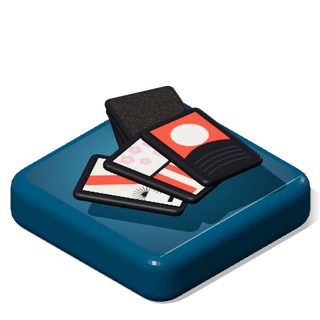
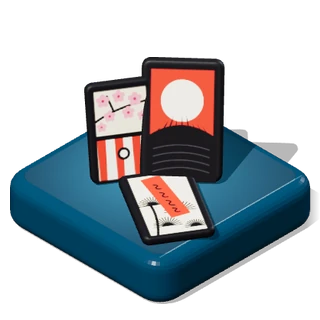
花札の3Dアイコン：芒に月・桜に幕を大きく立て、松に赤短を手前に寝かせる構図に、図柄をひと目で分かる形に
Claude-Session: https://claude.ai/code/session_01EiWRAXq3cwtuNUerXUujnf

diff --git a/atlas/icons3d.js b/atlas/icons3d.js
@@ -980,11 +980,12 @@
       const sf = mesh(new T.CircleGeometry(.6, 40), M({ map: starTex, transparent: true, roughness: .3, metalness: .5 })); g0.add(at(sf, 1.4, .185, 1.4, -Math.PI / 2, 0, .3));
       return g0;
     },
-    hanafuda() {   // 花札 (hanafuda/, 2026-11-28): an indigo-dyed cloth (the game's table colour), a squat stack of black-backed cards with the
-      // grainy paper back, and three face cards fanned on it — 芒に月 (the full moon), 桜に幕 (the curtain) and 松に赤短 (the red ribbon).
-      // The faces are drawn here as plain shapes (not the game's card art); the thick black edge is the backing paper folded over the face.
+    hanafuda() {   // 花札 (hanafuda/, 2026-11-28): on an indigo-dyed cloth (the game's table colour) two chunky cards stand leaning back toward
+      // the viewer — 芒に月 (the full moon over the pampas hill) in front, 桜に幕 (cherry blossom and the curtain) behind it — 松に赤短 (the red
+      // ribbon on the pine) lies in front, and a squat stack of black-backed cards sits at the back. The faces are drawn here as simple shapes
+      // (not the game's card art); the thick black edge is the backing paper folded over the face.
       const g0 = new T.Group();
-      const clothTex = X.canvasTex('ic-hfc', 512, 512, (c, W) => {
+      const clothTex = X.canvasTex('ic-hfcl', 512, 512, (c, W) => {
         const r = 40; c.beginPath(); c.moveTo(r, 0); c.arcTo(W, 0, W, W, r); c.arcTo(W, W, 0, W, r); c.arcTo(0, W, 0, 0, r); c.arcTo(0, 0, W, 0, r); c.closePath();
         const gr = c.createRadialGradient(W * .5, W * .4, 20, W * .5, W * .5, W * .75); gr.addColorStop(0, '#24607c'); gr.addColorStop(1, '#0f2f40'); c.fillStyle = gr; c.fill();
         c.save(); c.clip(); c.globalAlpha = .07; c.strokeStyle = '#cfe3ee'; c.lineWidth = 1;   // the weave
@@ -993,46 +994,63 @@
         c.strokeStyle = 'rgba(205,226,236,.35)'; c.lineWidth = 4; c.save(); c.translate(22, 22); c.scale((W - 44) / W, (W - 44) / W); c.stroke(); c.restore();
       });
       const top = mesh(new T.PlaneGeometry(3.86, 3.86), M({ map: clothTex, transparent: true, roughness: .9 })); top.rotation.x = -Math.PI / 2; top.position.y = .006; top.receiveShadow = true; g0.add(top);
-      // faces: 320 x 530 like the real cards, a black frame all round
-      const face = (k, draw) => X.canvasTex('ic-hff' + k, 320, 530, (c, W, H) => {
-        c.fillStyle = '#1b1a1f'; c.fillRect(0, 0, W, H); c.fillStyle = '#f1e6cc'; c.fillRect(20, 20, W - 40, H - 40);
-        c.save(); c.beginPath(); c.rect(20, 20, W - 40, H - 40); c.clip(); draw(c, W, H); c.restore();
+      const INK = '#1c1b20', RED = '#d23a2c', PAPER = '#f3e9d0';
+      const face = (k, draw) => X.canvasTex('ic-hff' + k, 400, 662, (c, W, H) => {
+        c.fillStyle = INK; c.fillRect(0, 0, W, H); c.fillStyle = PAPER; c.fillRect(22, 22, W - 44, H - 44);
+        c.save(); c.beginPath(); c.rect(22, 22, W - 44, H - 44); c.clip(); draw(c, W, H); c.restore();
       });
+      const blade = (c, x, y, len, a, w) => { c.beginPath(); c.moveTo(x - w, y); c.quadraticCurveTo(x + Math.cos(a) * len * .5, y - Math.sin(a) * len * .6, x + Math.cos(a) * len, y - Math.sin(a) * len); c.quadraticCurveTo(x + Math.cos(a) * len * .5 + w, y - Math.sin(a) * len * .5, x + w, y); c.fill(); };
+      // 芒に月: a red sky, the big white full moon, the black pampas hill with its blades
       const moonTex = face('m', (c, W, H) => {
-        c.fillStyle = '#c8302a'; c.fillRect(0, 0, W, H * .62);
-        c.fillStyle = '#f6efdc'; c.beginPath(); c.arc(W * .5, H * .3, 92, 0, 7); c.fill();
-        c.fillStyle = '#1d1c22'; c.beginPath(); c.moveTo(0, H * .6); c.quadraticCurveTo(W * .5, H * .38, W, H * .6); c.lineTo(W, H); c.lineTo(0, H); c.fill();
-        c.strokeStyle = '#3a3940'; c.lineWidth = 4; for (let i = 0; i < 4; i++) { c.beginPath(); c.moveTo(30, H * (.7 + i * .07)); c.quadraticCurveTo(W * .5, H * (.6 + i * .07), W - 30, H * (.7 + i * .07)); c.stroke(); }
+        c.fillStyle = RED; c.fillRect(0, 0, W, H * .66);
+        c.fillStyle = '#fbf6e8'; c.beginPath(); c.arc(W * .5, H * .3, 120, 0, 7); c.fill();
+        c.fillStyle = INK; c.beginPath(); c.moveTo(0, H * .62); c.quadraticCurveTo(W * .5, H * .4, W, H * .62); c.lineTo(W, H); c.lineTo(0, H); c.fill();
+        for (let i = 0; i < 9; i++) blade(c, 40 + i * 40, H * .56 + Math.abs(i - 4) * 9, 70 + (i % 3) * 22, Math.PI / 2 + (i - 4) * .16, 6);
+        c.strokeStyle = '#4a4850'; c.lineWidth = 5; for (let i = 0; i < 4; i++) { c.beginPath(); c.moveTo(40, H * (.72 + i * .065)); c.quadraticCurveTo(W * .5, H * (.64 + i * .065), W - 40, H * (.72 + i * .065)); c.stroke(); }
       });
-      const curtainTex = face('c', (c, W, H) => {
-        const bl = (x, y, r) => { c.fillStyle = '#e88aa4'; for (let i = 0; i < 5; i++) { const a = i * 1.257; c.beginPath(); c.arc(x + Math.cos(a) * r * .55, y + Math.sin(a) * r * .55, r * .5, 0, 7); c.fill(); } c.fillStyle = '#f7d9a0'; c.beginPath(); c.arc(x, y, r * .25, 0, 7); c.fill(); };
-        [[70, 70, 38], [160, 55, 34], [250, 80, 38], [110, 150, 30], [215, 160, 32]].forEach(b => bl(...b));
-        // the red-and-white curtain
-        for (let i = 0; i < 6; i++) { c.fillStyle = i % 2 ? '#f4ede0' : '#c8302a'; c.fillRect(20 + i * 47, 250, 47, 240); }
-        c.fillStyle = '#1d1c22'; c.fillRect(20, 236, W - 40, 22);
+      // 桜に幕: pink blossoms on dark branches above, the red-and-white striped curtain below
+      const sakuraTex = face('s', (c, W, H) => {
+        c.strokeStyle = INK; c.lineWidth = 16; c.lineCap = 'round'; c.beginPath(); c.moveTo(20, 230); c.quadraticCurveTo(150, 150, 380, 120); c.stroke(); c.beginPath(); c.moveTo(150, 170); c.lineTo(110, 60); c.stroke();
+        const bl = (x, y, r) => { c.fillStyle = '#ef9bb4'; for (let i = 0; i < 5; i++) { const a = i * 1.2566 - Math.PI / 2; c.beginPath(); c.ellipse(x + Math.cos(a) * r * .55, y + Math.sin(a) * r * .55, r * .5, r * .42, a, 0, 7); c.fill(); } c.fillStyle = '#c23a55'; c.beginPath(); c.arc(x, y, r * .22, 0, 7); c.fill(); };
+        [[80, 90, 46], [190, 70, 44], [300, 100, 48], [120, 200, 40], [250, 190, 44], [345, 220, 36], [60, 270, 34]].forEach(b => bl(...b));
+        c.fillStyle = INK; c.fillRect(0, 330, W, 30);
+        for (let i = 0; i < 6; i++) { c.fillStyle = i % 2 ? '#fbf6e8' : RED; c.beginPath(); c.moveTo(22 + i * 60, 360); c.lineTo(22 + (i + 1) * 60, 360); c.lineTo(22 + (i + 1) * 60 + (i % 2 ? 6 : -4), H); c.lineTo(22 + i * 60 + (i % 2 ? -4 : 6), H); c.fill(); }
+        c.fillStyle = INK; c.beginPath(); c.arc(W * .5, 470, 44, 0, 7); c.fill(); c.fillStyle = '#fbf6e8'; c.beginPath(); c.arc(W * .5, 470, 26, 0, 7); c.fill();
       });
-      const ribbonTex = face('r', (c, W, H) => {
-        c.fillStyle = '#1d1c22';   // pine needles
-        for (let k = 0; k < 3; k++) { const x = 70 + k * 90, y = 330 + (k % 2) * 60; for (let i = 0; i < 12; i++) { const a = -Math.PI + i * Math.PI / 11; c.beginPath(); c.moveTo(x, y); c.lineTo(x + Math.cos(a) * 70, y + Math.sin(a) * 70); c.lineWidth = 6; c.strokeStyle = '#1d1c22'; c.stroke(); } }
-        c.fillRect(40, 440, W - 80, 26);
-        // the red ribbon, slanting
-        c.save(); c.translate(W * .5, H * .36); c.rotate(-.32); c.fillStyle = '#c8302a'; c.fillRect(-42, -190, 84, 340); c.restore();
+      // 松に赤短: the black pine with its needle fans, the red ribbon slanting across with brush strokes on it
+      const pineTex = face('p', (c, W, H) => {
+        c.fillStyle = INK; c.strokeStyle = INK; c.lineWidth = 18; c.lineCap = 'round';
+        c.beginPath(); c.moveTo(60, H); c.quadraticCurveTo(120, 450, 90, 300); c.stroke();
+        const fan = (x, y, r) => { for (let i = 0; i < 15; i++) { const a = Math.PI + i * Math.PI / 14; c.lineWidth = 7; c.beginPath(); c.moveTo(x, y); c.lineTo(x + Math.cos(a) * r, y + Math.sin(a) * r); c.stroke(); } };
+        fan(110, 330, 90); fan(260, 420, 100); fan(150, 560, 90); fan(320, 600, 70);
+        c.save(); c.translate(W * .52, H * .4); c.rotate(-.22);
+        c.fillStyle = RED; c.fillRect(-66, -230, 132, 440);
+        c.strokeStyle = INK; c.lineWidth = 9; [[-150, -95], [-60, 0], [30, 95], [120, 170]].forEach(([y0, y1]) => { c.beginPath(); c.moveTo(-14, y0); c.quadraticCurveTo(22, (y0 + y1) / 2 - 10, -8, (y0 + y1) / 2); c.quadraticCurveTo(-26, (y0 + y1) / 2 + 20, 12, y1); c.stroke(); });
+        c.restore();
       });
-      // the back: black paper with a fine grain
       const backTex = X.canvasTex('ic-hfb', 320, 530, (c, W, H) => {
         c.fillStyle = '#1a1512'; c.fillRect(0, 0, W, H);
         let s = 7; const rnd = () => (s = (s * 16807) % 2147483647) / 2147483647;
         for (let i = 0; i < 5200; i++) { const v = 60 + rnd() * 70; c.fillStyle = `rgba(${v + 14},${v + 4},${v - 6},${.25 + rnd() * .45})`; const r = .8 + rnd() * 2.2; c.fillRect(rnd() * W, rnd() * H, r, r); }
       });
       const edge = C(0x1b1a1f, { roughness: .55 });
-      // chunky cards: thick, with the black edge
-      const card = (mt, h) => { const b = rbox(1.32, h, 2.18, .1, edge); const f = mesh(new T.PlaneGeometry(1.26, 2.1), mt); f.rotation.x = -Math.PI / 2; f.position.y = h + .004; return grp(b, f); };
+      const CW = 1.3, CL = 2.15;
+      // a chunky card lying flat: the face up, the top of the picture toward -z
+      const card = (mt, h) => { const b = rbox(CW, h, CL, .1, edge); const f = mesh(new T.PlaneGeometry(CW - .06, CL - .06), mt); f.rotation.x = -Math.PI / 2; f.position.y = h + .004; return grp(b, f); };
+      // a card standing up, leaning back by `lean`, turned to face the corner-on camera
+      const stand = (mt, h, lean, s, ry) => {
+        const inner = card(mt, h); inner.position.set(0, -h / 2, 0);
+        const tilt = new T.Group(); tilt.add(inner); tilt.rotation.x = Math.PI / 2 - lean;
+        const outer = new T.Group(); outer.add(tilt); outer.rotation.y = -Math.PI / 4 + (ry || 0); outer.scale.setScalar(s || 1);
+        outer.userData.up = CL / 2 * Math.cos(lean) * (s || 1); return outer; };
       const backM = M({ map: backTex, roughness: .8 });
-      // the stack (the deck), squat and slightly uneven
-      for (let i = 0; i < 4; i++) g0.add(at(card(backM, .14), .62 + (i % 2 ? .04 : -.03), i * .14, -.7 + (i === 2 ? .04 : 0), 0, -.5 + .06 * (i - 1.5), 0));
-      // the three faces fanned in front
-      [[ribbonTex, -1.2, .62, .5], [curtainTex, -.52, .8, .18], [moonTex, .2, .95, -.14]].forEach(([tx, x, z, ry], i) =>
-        g0.add(at(card(M({ map: tx, roughness: .45 }), .16), x, .6 + i * .17, z, 0, ry, 0)));
+      // the stack of backs at the far corner
+      for (let i = 0; i < 4; i++) g0.add(at(card(backM, .13), 1.0 + (i % 2 ? .04 : -.03), i * .13, -1.05 + (i === 2 ? .04 : 0), 0, .7 + .06 * (i - 1.5), 0));
+      // 松に赤短 lying in front
+      g0.add(at(card(M({ map: pineTex, roughness: .45 }), .2), -.75, 0, .95, 0, -.55, 0));
+      // 桜に幕 standing behind, the moon card standing big in front of it
+      const sk = stand(M({ map: sakuraTex, roughness: .45 }), .22, .3, .92, .22); sk.position.set(-.45, sk.userData.up + .02, -.6); g0.add(sk);
+      const mo = stand(M({ map: moonTex, roughness: .45 }), .24, .38, 1.1, -.05); mo.position.set(.45, mo.userData.up + .02, .15); g0.add(mo);
       return g0;
     },
     blackjack() {   // a deep-teal blackjack felt: ivory printed arcs and a gold betting circle, a blackjack (A♠ + K♥) and black / gold chip stacks

diff --git a/claude/hanafuda-spec.md b/claude/hanafuda-spec.md
@@ -3,7 +3,7 @@
 2Dオンリーのカードゲーム（大百科の3D版は作らない）。ALPHA。2人用「こいこい」。
 
 ## 状態（2026-11-28 更新）
-- トップページに ALPHA で掲載（ユーザー承認「ひとまず」）。並びはハーツの前（カードゲーム）。サムネイルは `images/hanafuda.webp`（卓の画面）、アイコンは `images/icons/hanafuda.svg`。大百科の一覧（`shared/atlas.js` の GAMES・READ）に登録、3D版はなし。大百科ギャラリーの3Dアイコンは `images/atlas/hanafuda.webp`（`atlas/icons3d.js` の `hanafuda()`：藍の布の厚い台に、砂目の黒い裏の山札と、芒に月・桜に幕・松に赤短の3枚を扇に。絵柄は図形で描き直したもので、ゲームの札の絵〔CC BY-SA〕は使わない。`atlas/tools/icons.html` → `icon-post.py`）。
+- トップページに ALPHA で掲載（ユーザー承認「ひとまず」）。並びはハーツの前（カードゲーム）。サムネイルは `images/hanafuda.webp`（卓の画面）、アイコンは `images/icons/hanafuda.svg`。大百科の一覧（`shared/atlas.js` の GAMES・READ）に登録、3D版はなし。大百科ギャラリーの3Dアイコンは `images/atlas/hanafuda.webp`（`atlas/icons3d.js` の `hanafuda()`：藍の布の厚い台に、厚みのある札を2枚斜めに立てる〔手前に大きく芒に月、後ろに桜に幕〕、手前に松に赤短を寝かせ、奥に砂目の黒い裏の山札。絵柄は図形で描き直したもので、ゲームの札の絵〔CC BY-SA〕は使わない。`atlas/tools/icons.html` → `icon-post.py`）。
 
 ## 状態（2026-11-28）
 - フェーズ1：難所4枚（松に鶴・柳に小野道風・桐に鳳凰・菊に盃）の絵柄サンプルを `hanafuda/art-preview.html` で公開。**残り44枚の本番絵柄とトップページ掲載はユーザーの合格待ち**。
